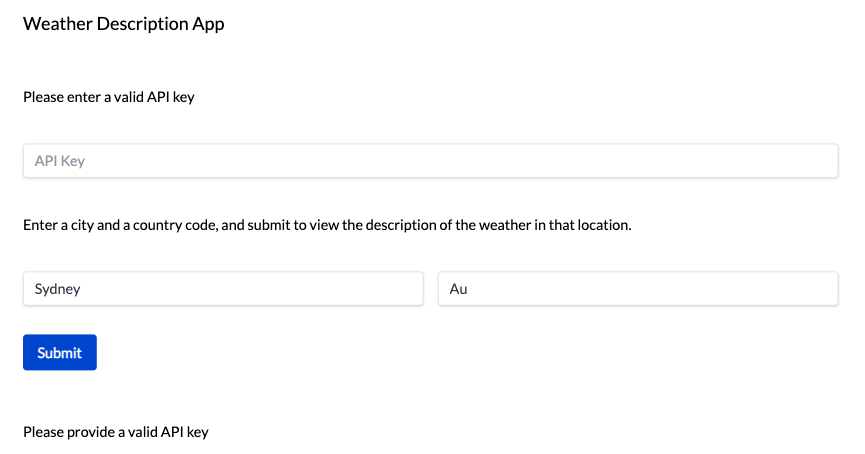
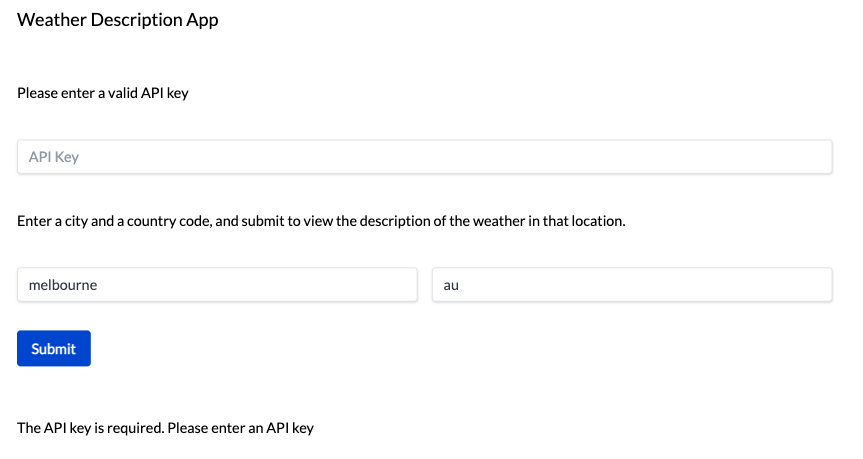
Update readme and amend incorrect screenshots

diff --git a/README.md b/README.md
@@ -1,31 +1,49 @@
 # Weather Application
 
+# Contents
+[Introduction](https://github.com/sophieleegoh/Weather-App?tab=readme-ov-file#introduction)
+[Webpage Features](https://github.com/sophieleegoh/Weather-App?tab=readme-ov-file#webpage-features)
+[API Features](https://github.com/sophieleegoh/Weather-App?tab=readme-ov-file#api-features)
+- [API Key Implementation Details](https://github.com/sophieleegoh/Weather-App?tab=readme-ov-file#api-key-implementation-details)
+- [API Key Rate Limiting Implementation Details](https://github.com/sophieleegoh/Weather-App?tab=readme-ov-file#api-key-rate-limiting-implementation-details)
+[Building/Running the Solution](https://github.com/sophieleegoh/Weather-App?tab=readme-ov-file#building-and-running-the-solution)
+- [API](https://github.com/sophieleegoh/Weather-App?tab=readme-ov-file#building-and-running-the-api)
+- [UI](https://github.com/sophieleegoh/Weather-App?tab=readme-ov-file#installing-dependencies-and-running-the-ui)
+[Testing the Solution](https://github.com/sophieleegoh/Weather-App?tab=readme-ov-file#testing-the-solution)
+- [Unit Tests](https://github.com/sophieleegoh/Weather-App?tab=readme-ov-file#running-api-unit-tests)
+- [Integration Tests](https://github.com/sophieleegoh/Weather-App?tab=readme-ov-file#running-api-integration-tests)
+- [UI Tests](https://github.com/sophieleegoh/Weather-App?tab=readme-ov-file#running-ui-tests)
+- [Manually Testing via the UI](https://github.com/sophieleegoh/Weather-App?tab=readme-ov-file#manually-testing-via-the-ui)
+- [Manually Testing the API](https://github.com/sophieleegoh/Weather-App?tab=readme-ov-file#manually-testing-the-api)
+[Example Screenshots of the UI](https://github.com/sophieleegoh/Weather-App?tab=readme-ov-file#api-features)
+
+# Introduction
 In this repository, you will find a webpage UI built with `React` and an API created using `.NET`.
 
 Please note that although the technical challenge description specified that both the UI and API should accept a city name and country **name**, the UI and API that I have implemented accept a city name and a country **code**. According to the [OpenWeatherMap documentation](https://openweathermap.org/current#:~:text=https%3A//api.openweathermap.org/data/2.5/weather%3Fq%3D%7Bcity%20name%7D%2C%7Bcountry%20code%7D%26appid%3D%7BAPI%20key%7D), it states that it requires a city name and country code, instead of a country name.
 
 If you provide a full country name to the Open Weather Map endpoint, it often still returns a response, however, in the situation where you provide a city that exists in multiple countries, I believe that behind the scenes, it is making an assumption of which country you are looking for. As such, it feels a little unusual to deliberately enforce that a user enters a full country name, instead of a country code, as this is what the underlying API is looking for. I have reached out to a team member and they have validated that for this technical challenge, it would be suitable to accept a city name and country code.
 
-I have also not enforced that a user enters a country code. This is because the Open Weather Map endpoint can produce a result with just the city name only. As a result, the country code input is optional, however, if provided, it strictly needs to be a 2 letter country code.
+I have also not enforced that a user enters a country code. This is because the Open Weather Map endpoint can produce a result with just the city name only. As a result, the country code input is optional, however, if provided, it strictly needs to be a 2-letter country code.
 
 To learn more about country codes, please refer to [ISO 3166](https://www.iso.org/obp/ui/#iso:pub:PUB500001:en).
 
 ## Webpage Features
 
-1. Provide user with basic instructions on how to interact with the UI, and allow user to enter a city name and country code. The user must also enter an API key
+1. Provide the user with basic instructions on how to interact with the UI, and allow the user to enter a city name and country code. The user must also enter an API key
 2. When the user clicks on the Submit button, the result is displayed below
    1. If successful, the result will just contain the weather description. If there are multiple descriptions returned, they will be separated by a comma.
-   2. If there have been validation issues that were non-fatal, a warning will also be displayed in addition to the weather description if possible.
-   3. If the valiation issues were fatal, an error message will be displayed to inform the user how to proceed.
+   2. If there have been non-fatal validation issues, a warning will also be displayed in addition to the weather description if possible.
+   3. If the validation issues were fatal, an error message will be displayed to inform the user how to proceed.
 
 ## API Features
 
 1. There is 1 REST endpoint (`/weather`) that accepts both the city name and country code.
 2. This endpoint requires the following:
-   1. A query parameter specifying city
+   1. A query parameter specifying the city
    2. Another query parameter specifying the country code
    3. A valid API key
-3. There are 5 API keys that have been created.
+3. 5 API keys have been created.
 4. Each API key has been limited to 5 weather reports per hour.
 5. Before calling the OpenWeatherMap service, it is validated that the city provided is a non-empty string. Based on the behaviour of the OpenWeatherMap service, the country is an optional string and I have chosen the leave the validation of this string to the OpenWeatherMap service.
 
@@ -33,7 +51,7 @@ To learn more about country codes, please refer to [ISO 3166](https://www.iso.or
 
 The API Key is passed as a header, where the key is `API-KEY`. If the provided API key is invalid or missing, the endpoint will return the HTTP status code `401`, indicating that the request is lacking valid authentication credentials.
 
-For the purpose of this challenge, I have hardcoded 5 arbitrary, randomly generated strings into the `appsettings.json` that are used as the API keys for the WeatherAPI (not to be mistaken for the Open Weather Map API Keys). Please note that if this were to be used by an application in production, I would store the API keys in a more secure manner, eg. using Azure Key Vault or AWS Secrets Manager.
+For the purpose of this challenge, I have hardcoded 5 arbitrary, randomly generated strings into the `appsettings.json` that are used as the API keys for the WeatherAPI (not to be mistaken for the Open Weather Map API Keys). Please note that if this were to be used by an application in production, I would store the API keys more securely, eg. using Azure Key Vault or AWS Secrets Manager.
 
 It is usually seen as bad practice to commit an API key to a repository, as the git history will stay public forever (unless overwritten). Even if the git history is no longer public, you do not know if someone who should not have had direct access to this API key has already saved this somewhere. As such, it is better practice to securely store API keys elsewhere and if they are accidentally leaked, there is ideally a mechanism to easily rotate them. For this particular exercise, I have committed it for demonstration purposes. If you would like to rotate the API keys, you can easily do so by setting them as environment variables (eg. `export ApiKeys__0="new api key"`, where 0 is the index of the `ApiKeys` array in `appsettings.json`).
 
@@ -43,9 +61,9 @@ In .NET 8.0, there is an inbuilt rate limiting middleware which I have utilised.
 
 I used a Fixed Window Rate Limiter and set the partition key to the API key from the HTTP request.
 
-If this application was in production, I would ensure that the rate limiting solution persisted (eg. in a database, cache, etc.). It would be important to persist the rate limiting in a central location if the WeatherAPI service went down, and we wanted to be able to restore the service without inadvertently increasing a user's limit. This would be particularly important if we wanted to create multiple instances of the WeatherAPI service running concurrently. If we did not use persistent storage, users might observe that they are able to sometimes retrieve over 5 weather reports if their requests are sent to different WeatherAPI instances.
+If this application was in production, I would ensure that the rate-limiting solution persisted (eg. in a database, cache, etc.). It would be important to persist the rate-limiting in a central location if the WeatherAPI service went down, and we wanted to be able to restore the service without inadvertently increasing a user's limit. This would be particularly important if we wanted to create multiple instances of the WeatherAPI service running concurrently. If we did not use persistent storage, users might observe that they can sometimes retrieve over 5 weather reports if their requests are sent to different WeatherAPI instances.
 
-# How to Build and Run the Solution
+# Building and Running the Solution
 
 ## Building and Running the API
 
@@ -75,7 +93,7 @@ The UI should now be reachable at `http://localhost:3000/`.
 - `npm run lint` will lint the code. It will attempt to automatically fix what it can and anything that it cannot will be displayed in the terminal.
 - `npm run coverage` will produce test coverage results.
 
-# How to Test the Solution
+# Testing the Solution
 
 ## Running API Unit Tests
 
@@ -85,13 +103,14 @@ The UI should now be reachable at `http://localhost:3000/`.
 ## Running API Integration Tests
 
 1. Navigate to the `WeatherApi.IntegrationTests` directory
-2. If you have not already set the environment variables `ApiKeys__0` and `ApiKeys__1`, you will need to set them to the corresponding values in `appsettings.json` file or the values that you have chosen to set. The reason for only setting 2 API keys is because there are only 2 that were utilised in the Integration tests
+2. If you have not already set the environment variables `ApiKeys__0` and `ApiKeys__1`, you will need to set them to the corresponding values in `appsettings.json` file or the values that you have chosen to set. The reason for only setting 2 API keys is that there are only 2 that were utilised in the Integration tests
 3. Run `dotnet test`. There should be 5 integration tests that run
 
 ## Running UI Tests
 
 1. Navigate to the `weather-app` directory
-2. Run `npm run test`
+2. If you have not already set the environment variables `ApiKeys__0` and `ApiKeys__1`, you will need to set them to the corresponding values in `appsettings.json` file or the values that you have chosen to set. The reason for only setting 2 API keys is that there are only 2 that were utilised in the UI tests
+3. Run `npm run test`. There should be 16 tests that run
 
 ## Manually Testing via the UI
 
@@ -106,14 +125,14 @@ The UI should now be reachable at `http://localhost:3000/`.
 There are several ways that you can test the API (eg. `curl`, using Postman, etc.).
 
 An example of a valid curl command:
-`curl --location 'http://localhost:5000/weather?country=au&city=melbourne' \
---header 'API-KEY: d096e3523c9e439397870d6528588a5b'`
+        
+    curl --location 'http://localhost:5000/weather?country=au&city=melbourne' --header 'API-KEY: d096e3523c9e439397870d6528588a5b'
 
 Note: if you have replaced the API keys, you will need to update the `API-KEY` value in the above curl command.
 
 # Example Screenshots of the UI
 
-## When a valid city and country code have been entered
+## When a valid city and country code has been entered
 
 ### With 1 weather description returned from the API
 
@@ -129,7 +148,7 @@ Note: For the remaining scenarios, only the laptop/larger device experience is c
 
 ### With 2 weather descriptions returned from the API
 
-Note: if there were additional weather descriptions, they would also be comma separated within quotation marks
+Note: if there were additional weather descriptions, they would also be comma-separated within the quotation marks
 ![alt text](screenshots/valid-city-and-country-multiple-descriptions.png)
 
 ## When a valid city and country code is empty
@@ -146,7 +165,7 @@ Note: if there were additional weather descriptions, they would also be comma se
 
 ![alt text](screenshots/invalid-city-in-specified-valid-country.png)
 
-## When an invalid city and invalid country code is provided
+## When an invalid city and invalid country code are provided
 
 ![alt text](screenshots/invalid-city-invalid-country.png)
 
